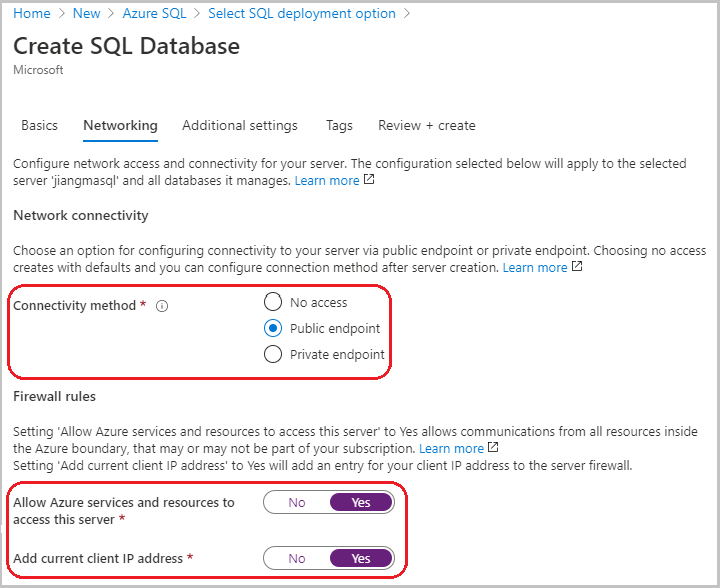
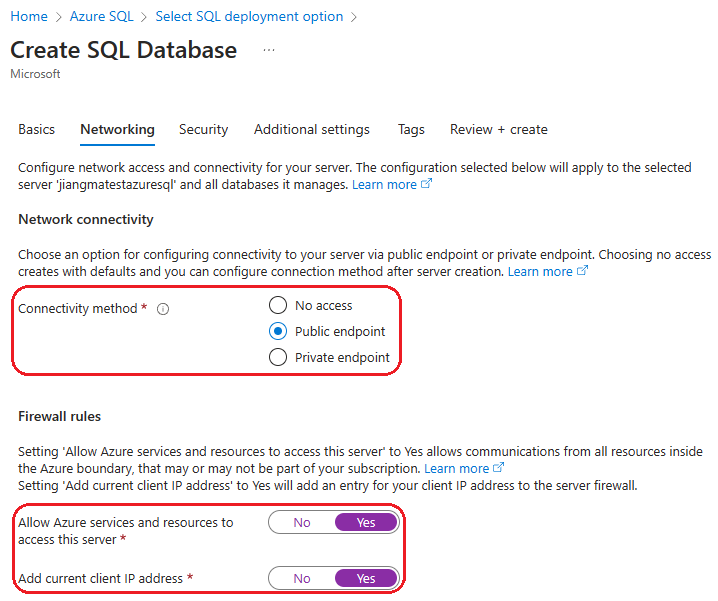
update sql networking png and remove tls setting png

Changed region(s): [[0.0, 0.0, 1.0, 1.0]]

diff --git a/articles/aks/howto-deploy-java-liberty-app.md b/articles/aks/howto-deploy-java-liberty-app.md
@@ -92,10 +92,6 @@ The following steps guide you through creating an Azure SQL Database single data
    > At the **Networking** step, set **Connectivity method** to **Public endpoint**, **Allow Azure services and resources to access this server** to **Yes**, and **Add current client IP address** to **Yes**.
    >
    > ![Screenshot of configuring SQL database networking.](./media/howto-deploy-java-liberty-app/create-sql-database-networking.png)
-   >
-   > Also at the **Networking** step, under **Encrypted connections**, set the **Minimum TLS version** to **TLS 1.0**.
-   >
-   > ![Screenshot of configuring SQL database networking TLS 1.0.](./media/howto-deploy-java-liberty-app/sql-database-minimum-TLS-version.png)
 
 Now that the database and AKS cluster have been created, we can proceed to preparing AKS to host your Open Liberty application.
 
